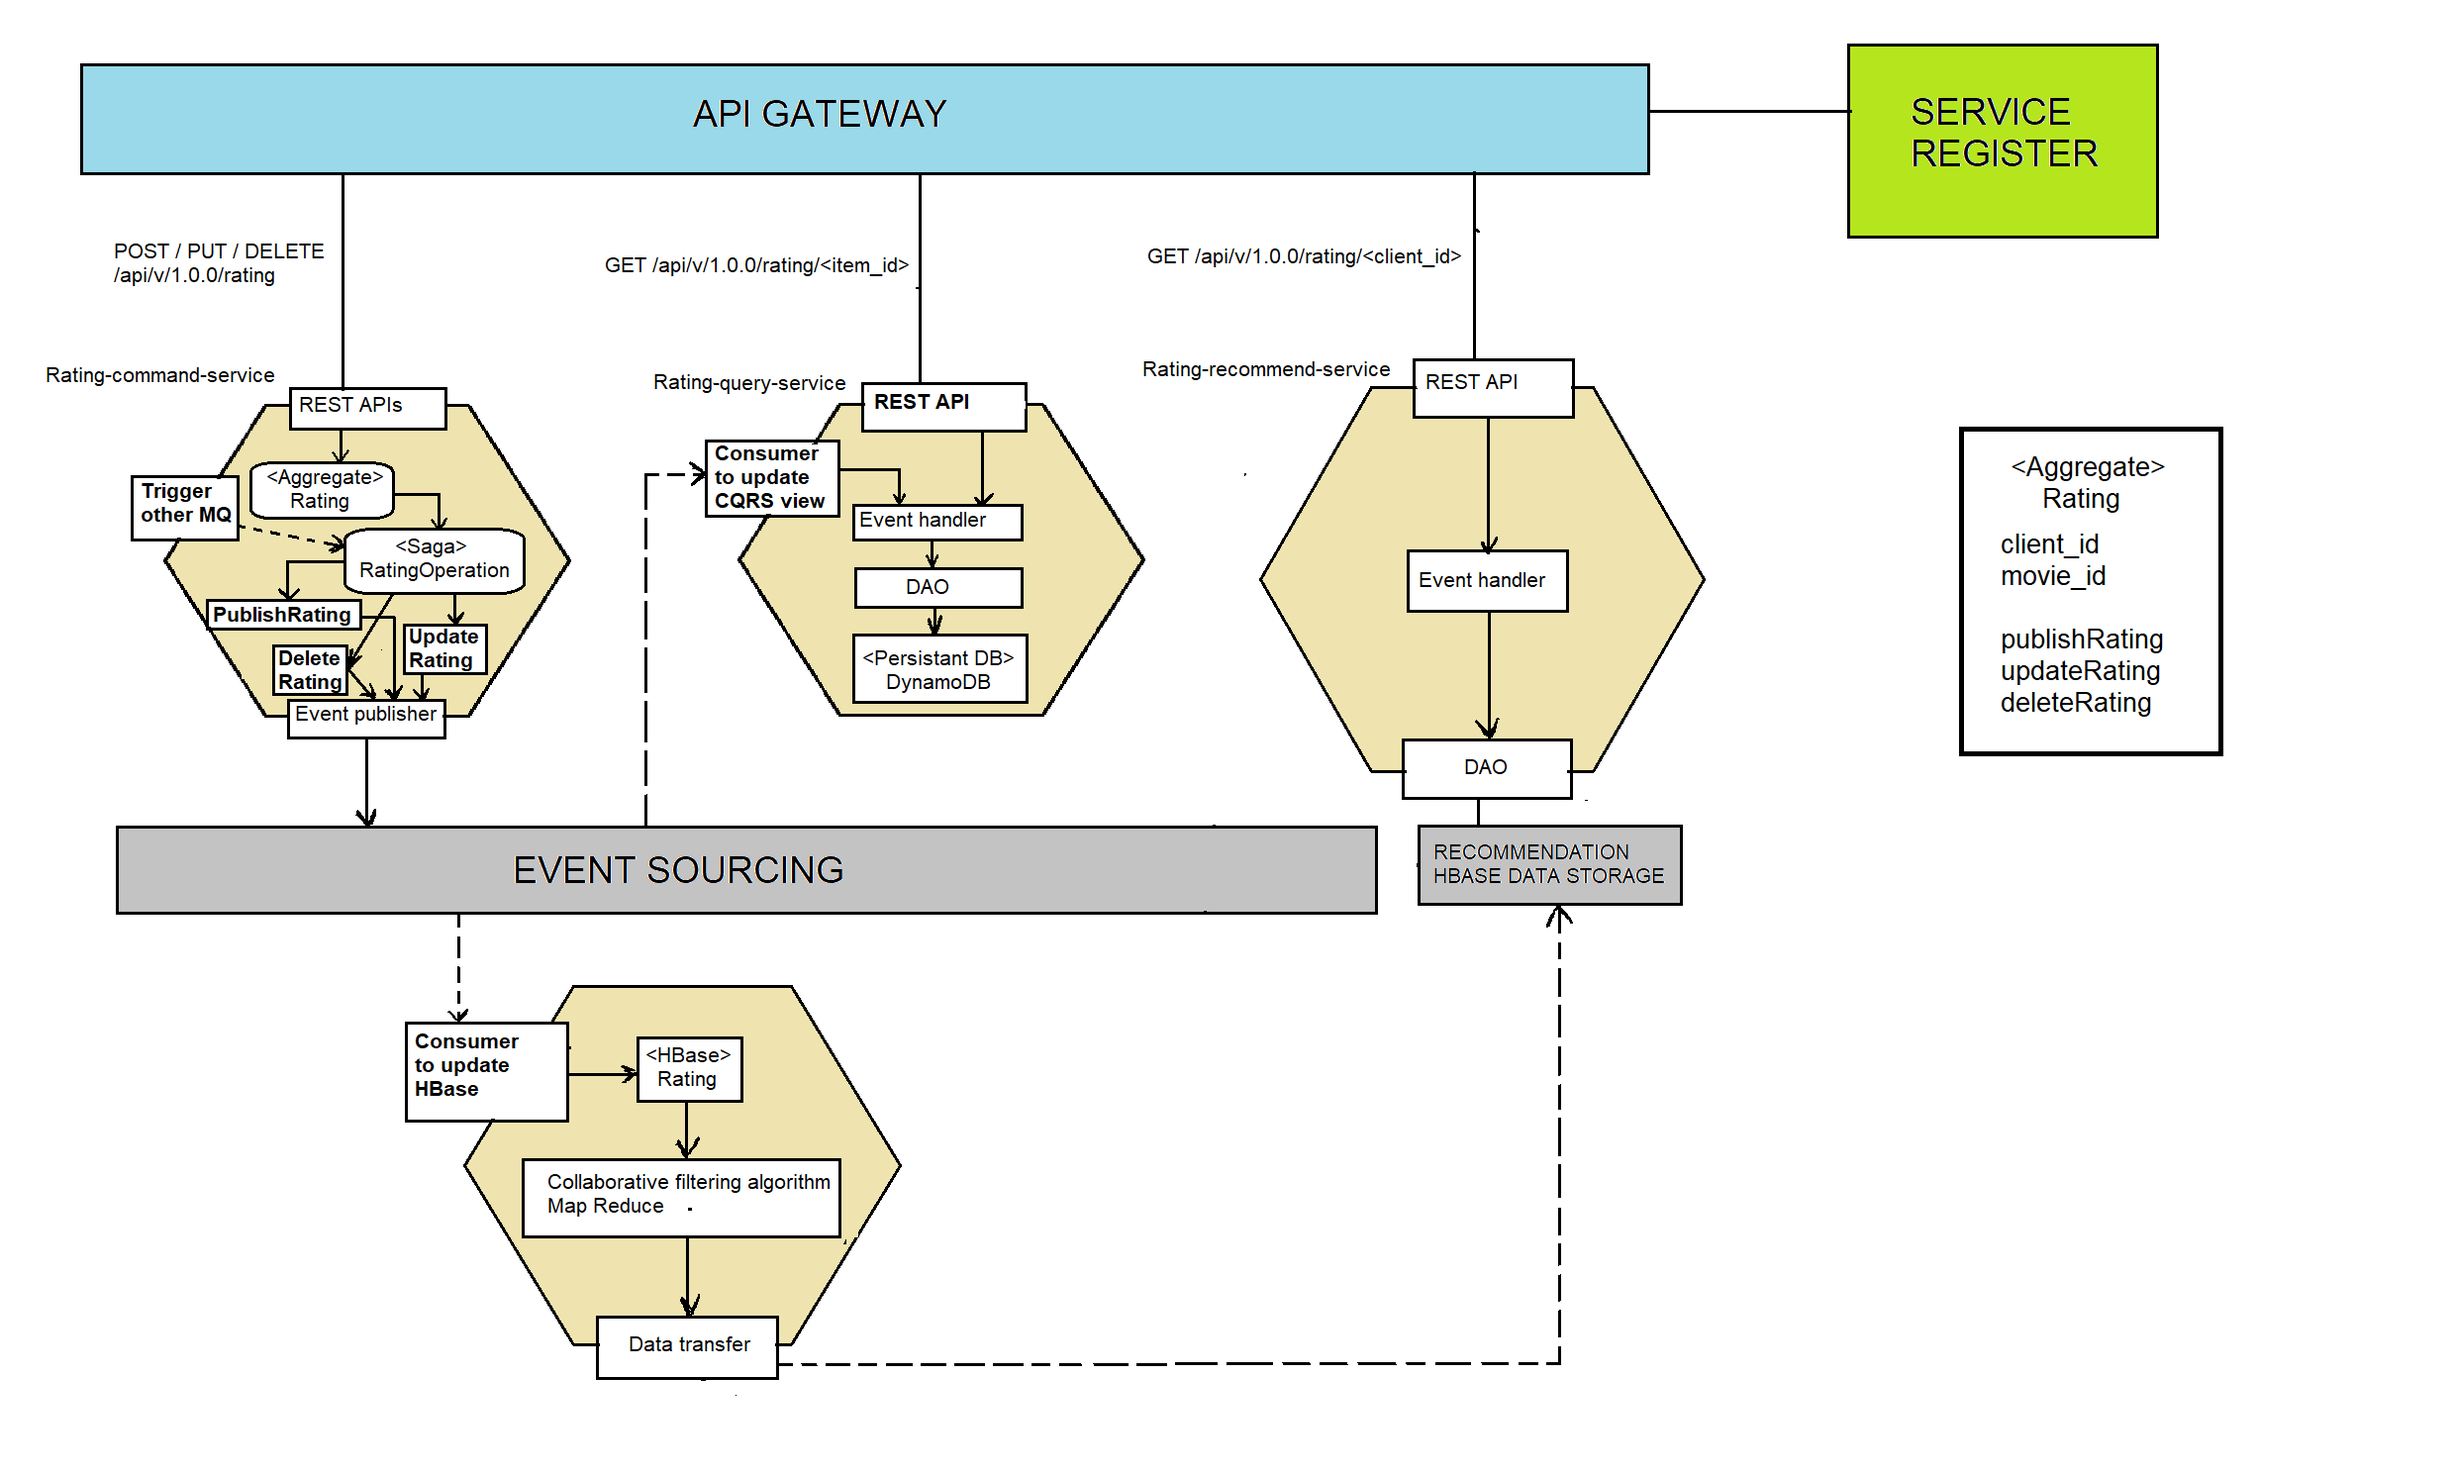
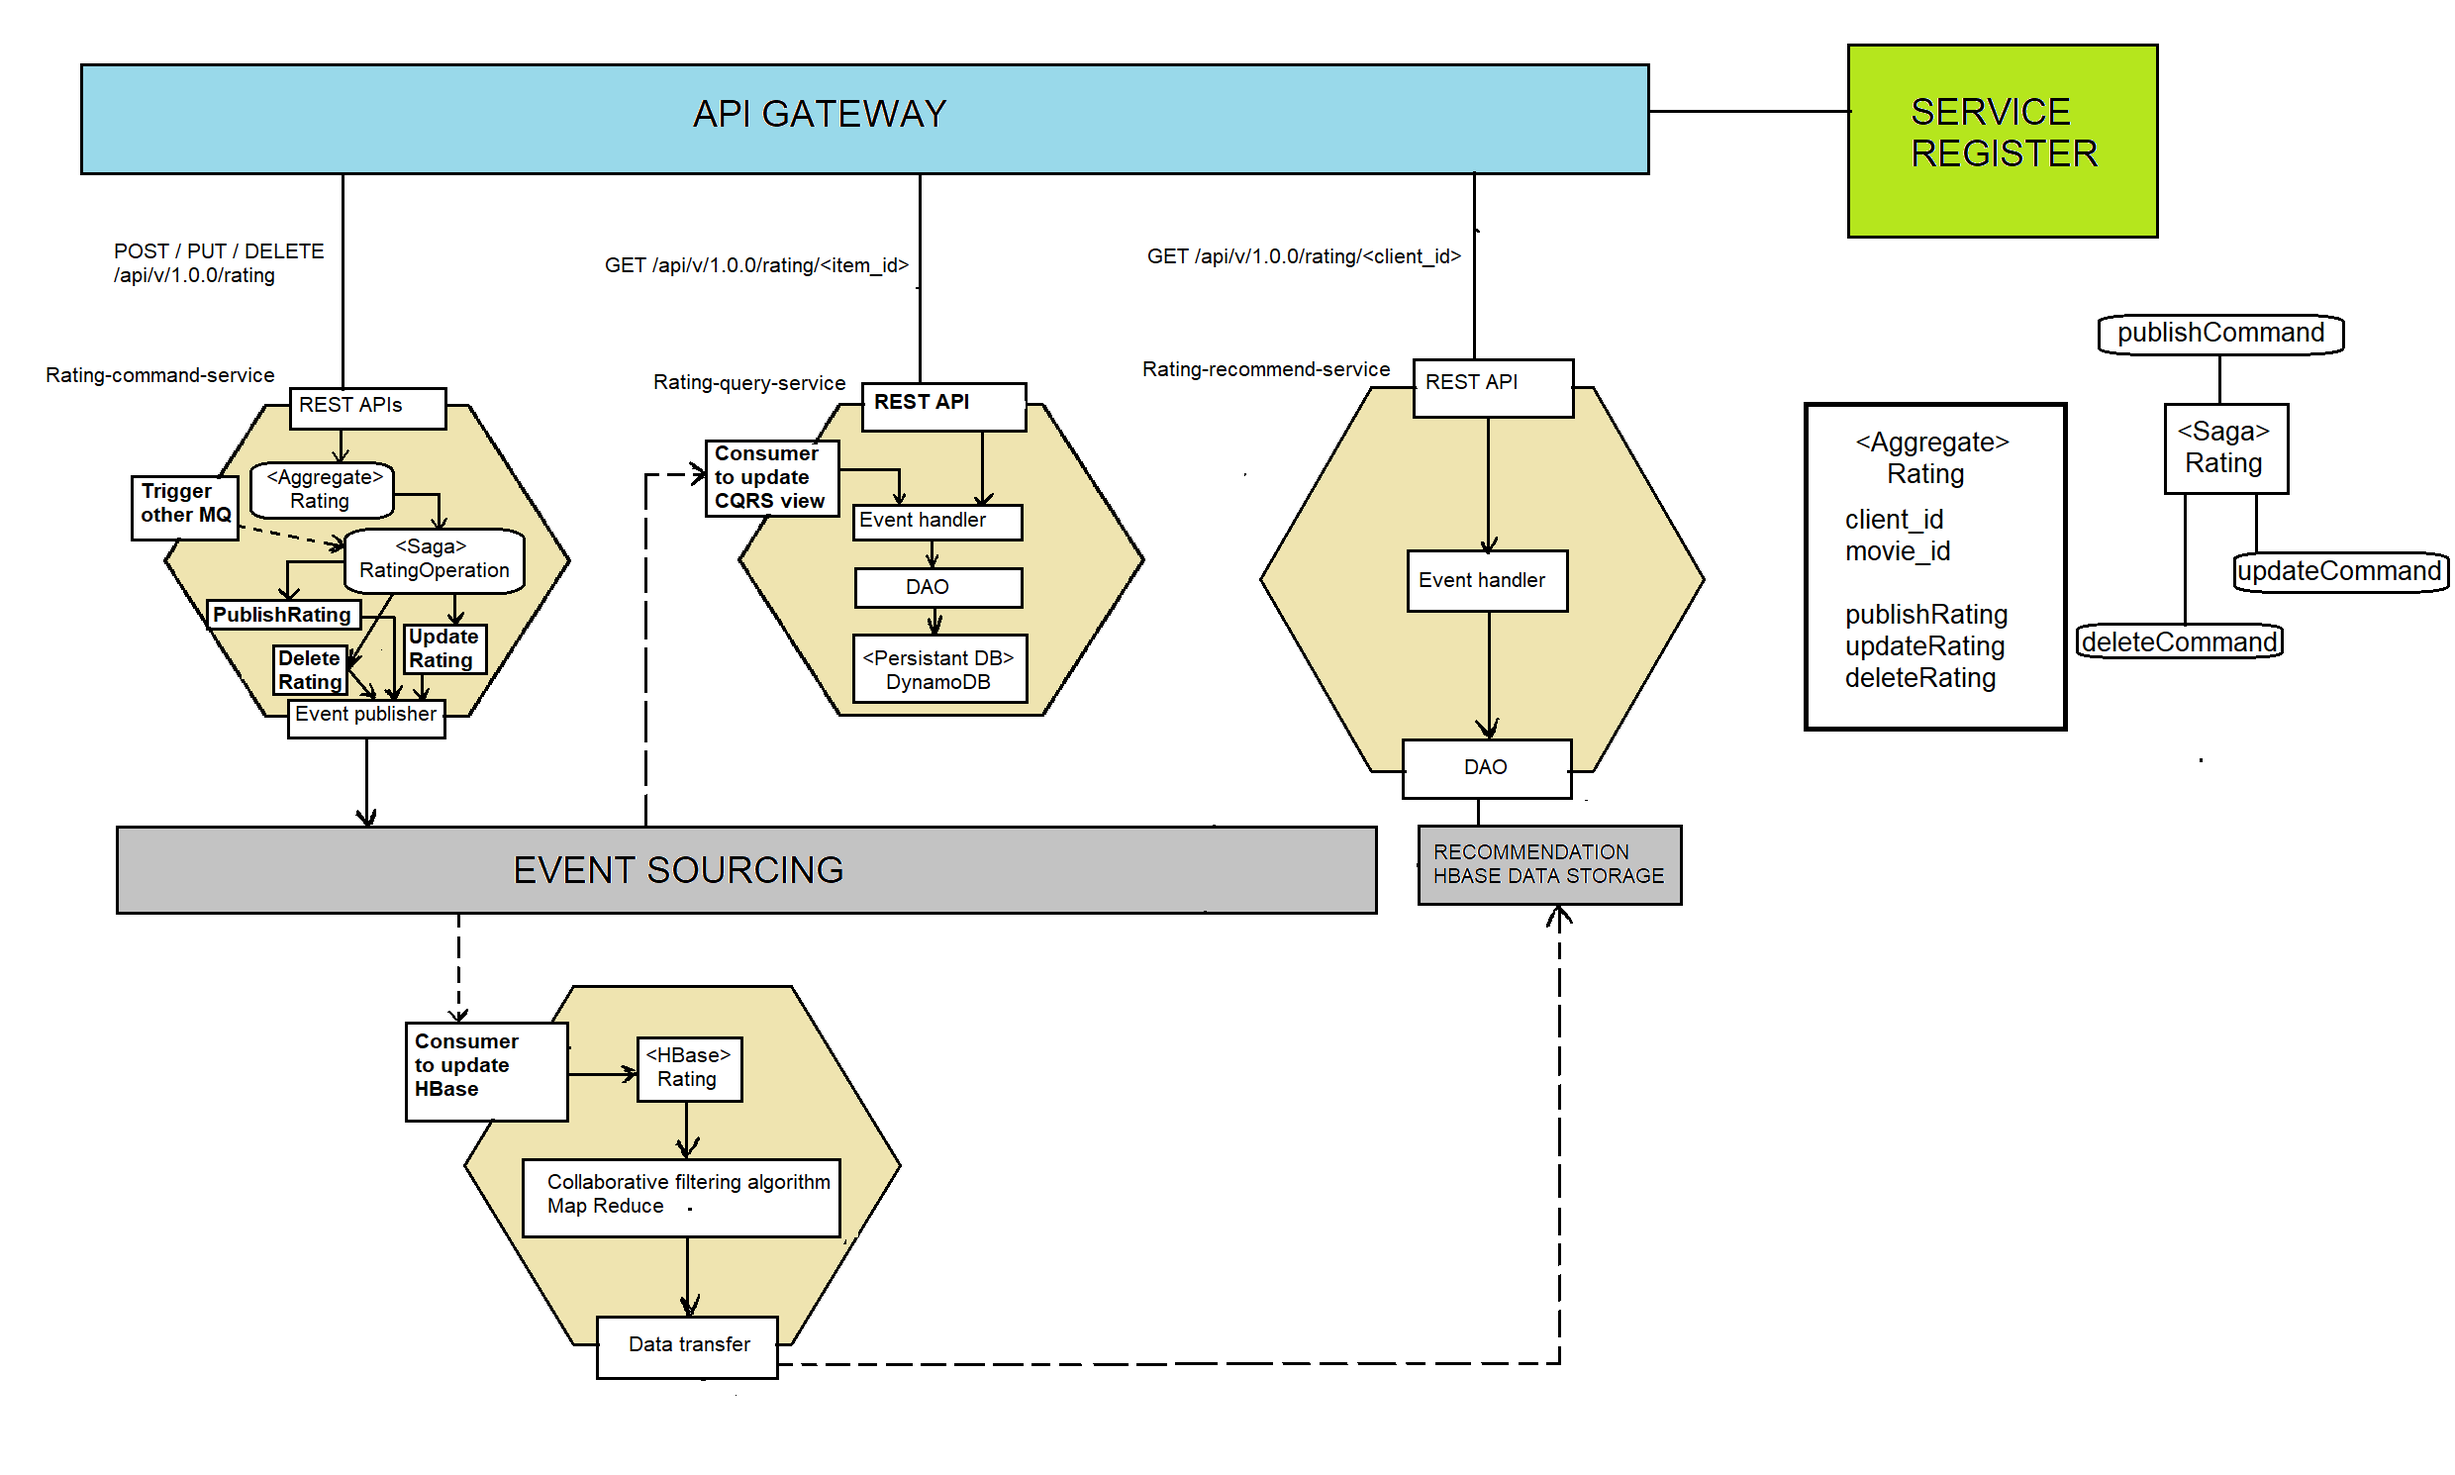
publish rating command

Changed region(s): [[0.7452, 0.247, 1.0, 0.5248], [0.8383, 0.2161, 0.9625, 0.247]]

diff --git a/services/recommender_service/rating-command-service/src/main/java/vn/datnguyen/recommender/Backend/PublishRatingCommand.java b/services/recommender_service/rating-command-service/src/main/java/vn/datnguyen/recommender/Backend/PublishRatingCommand.java
@@ -1,0 +1,25 @@
+package vn.datnguyen.recommender.Backend;
+
+public class PublishRatingCommand implements RatingCommand {
+    private final int clientId;
+    private final int itemId;
+    private final int score; 
+
+    public PublishRatingCommand(int clientId, int itemId, int score) {
+        this.clientId = clientId;
+        this.itemId = itemId;
+        this.score = score;
+    }
+
+    public int getScore() {
+        return this.score;
+    }
+
+    public int getClientId() {
+        return this.clientId;
+    }
+
+    public int getItemid() {
+        return this.itemId;
+    }
+}

diff --git a/services/recommender_service/rating-command-service/src/main/java/vn/datnguyen/recommender/Backend/Rating.java b/services/recommender_service/rating-command-service/src/main/java/vn/datnguyen/recommender/Backend/Rating.java
@@ -3,12 +3,5 @@ package vn.datnguyen.recommender.Backend;
 import io.eventuate.ReflectiveMutableCommandProcessingAggregate;
 
 public class Rating extends ReflectiveMutableCommandProcessingAggregate<Rating, RatingCommand> {
-    private int clientId; 
-    private int itemId;
-    private int score; 
-    private boolean isDelete;
-
-    public int getScore() {
-        return this.score;
-    }
+    private boolean isDeleted;
 }

diff --git a/services/recommender_service/rating-command-service/src/main/java/vn/datnguyen/recommender/Web/Controller.java b/services/recommender_service/rating-command-service/src/main/java/vn/datnguyen/recommender/Web/Controller.java
@@ -8,7 +8,7 @@ import org.springframework.web.bind.annotation.RestController;
 @RequestMapping("/api/v/1.0.0")
 public class Controller {
     
-    @RequestMapping(method = RequestMethod.GET)
+    @RequestMapping(value = "/", method = RequestMethod.GET)
     public String version() {
         return "v.1.0.0";
     }
